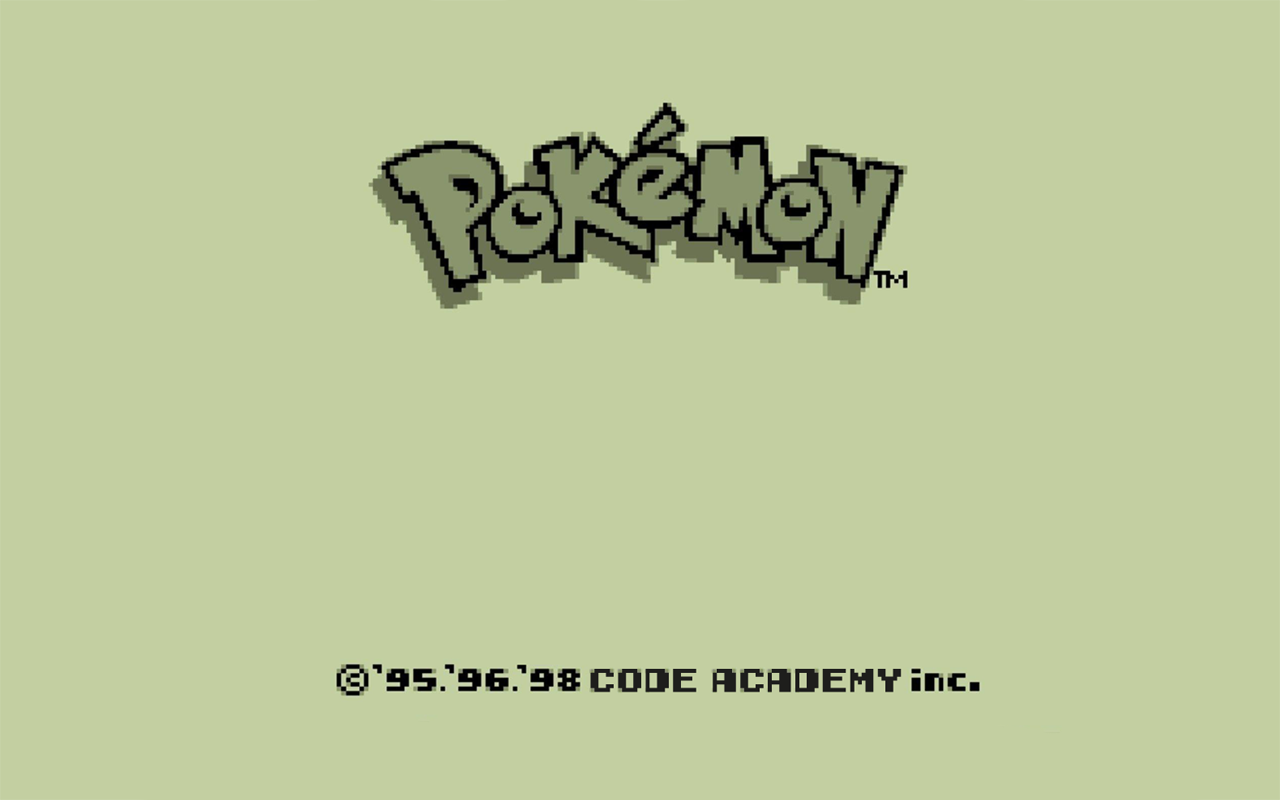
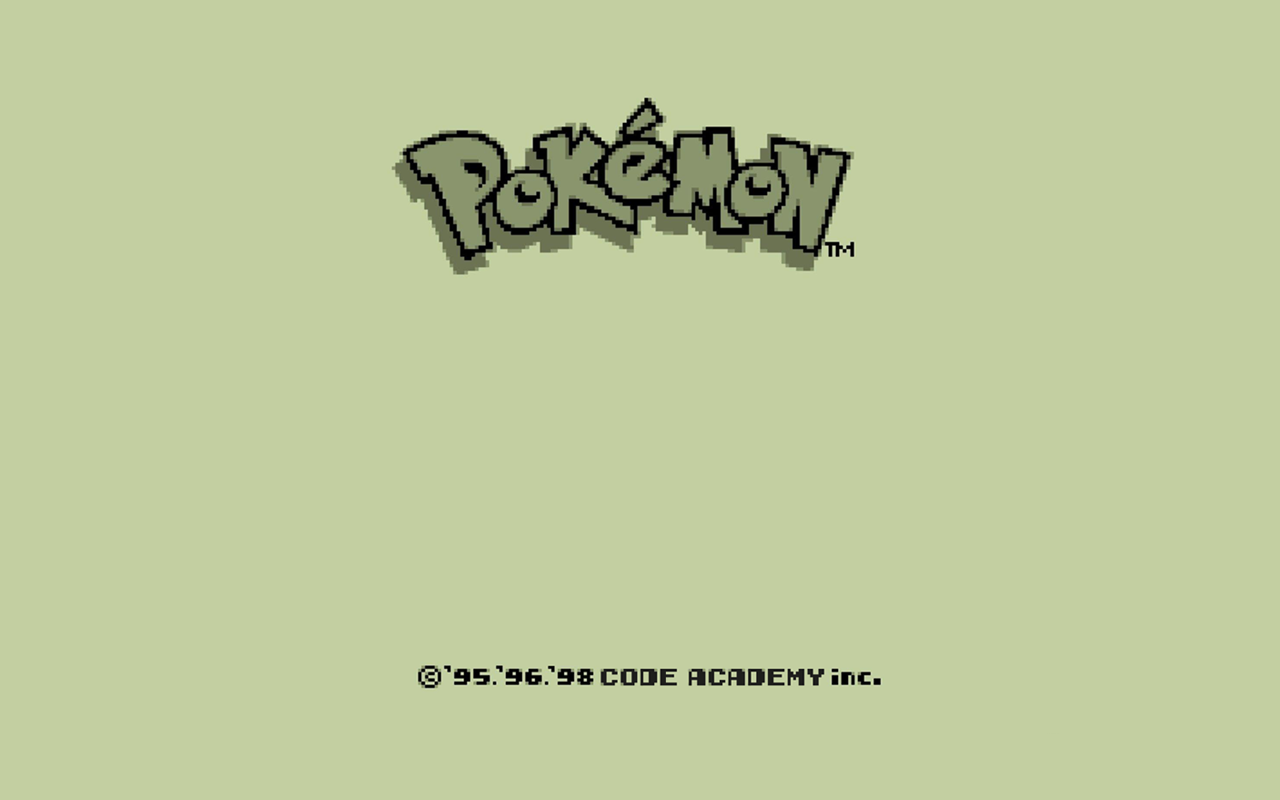
Add mobile resolution media query

Changed region(s): [[0.2812, 0.125, 0.7188, 0.4062], [0.25, 0.8125, 0.7812, 0.875]]

diff --git a/css/style.css b/css/style.css
@@ -33,8 +33,10 @@ img {
     width: 100%;
     padding-left: 20px;
     padding-right: 20px;
-    background-image: linear-gradient(60deg, #949494 0%, #f7f7f7 100%);
-    opacity: 0.9;
+}
+
+.navbar a {
+    color:rgb(200, 200, 200);
 }
 
 /*-----home-----*/
@@ -45,4 +47,17 @@ img {
     background-position: top center;
     position: relative;
     z-index: 1;
+}
+
+/*-----media-----*/
+
+@media only screen and (max-width: 480px) {
+    #home .home {
+        background-image: url(/assets/images/gamebackgroundmobile.png);
+        background-size: cover;
+        background-position: top center;
+        position: relative;
+        z-index: 1;
+
+    }
 }

diff --git a/index.html b/index.html
@@ -10,7 +10,7 @@
 </head>
 <body>
     <nav class="navbar navbar-expand-lg bg-body-tertiary">
-        <div class="navbar">
+        <div class="navbar navbar navbar-dark bg-dark">
           <a class="navbar-brand" href="#">Javascript game</a>
           <button class="navbar-toggler" type="button" data-bs-toggle="collapse" data-bs-target="#navbarSupportedContent" aria-controls="navbarSupportedContent" aria-expanded="false" aria-label="Toggle navigation">
             <span class="navbar-toggler-icon"></span>
